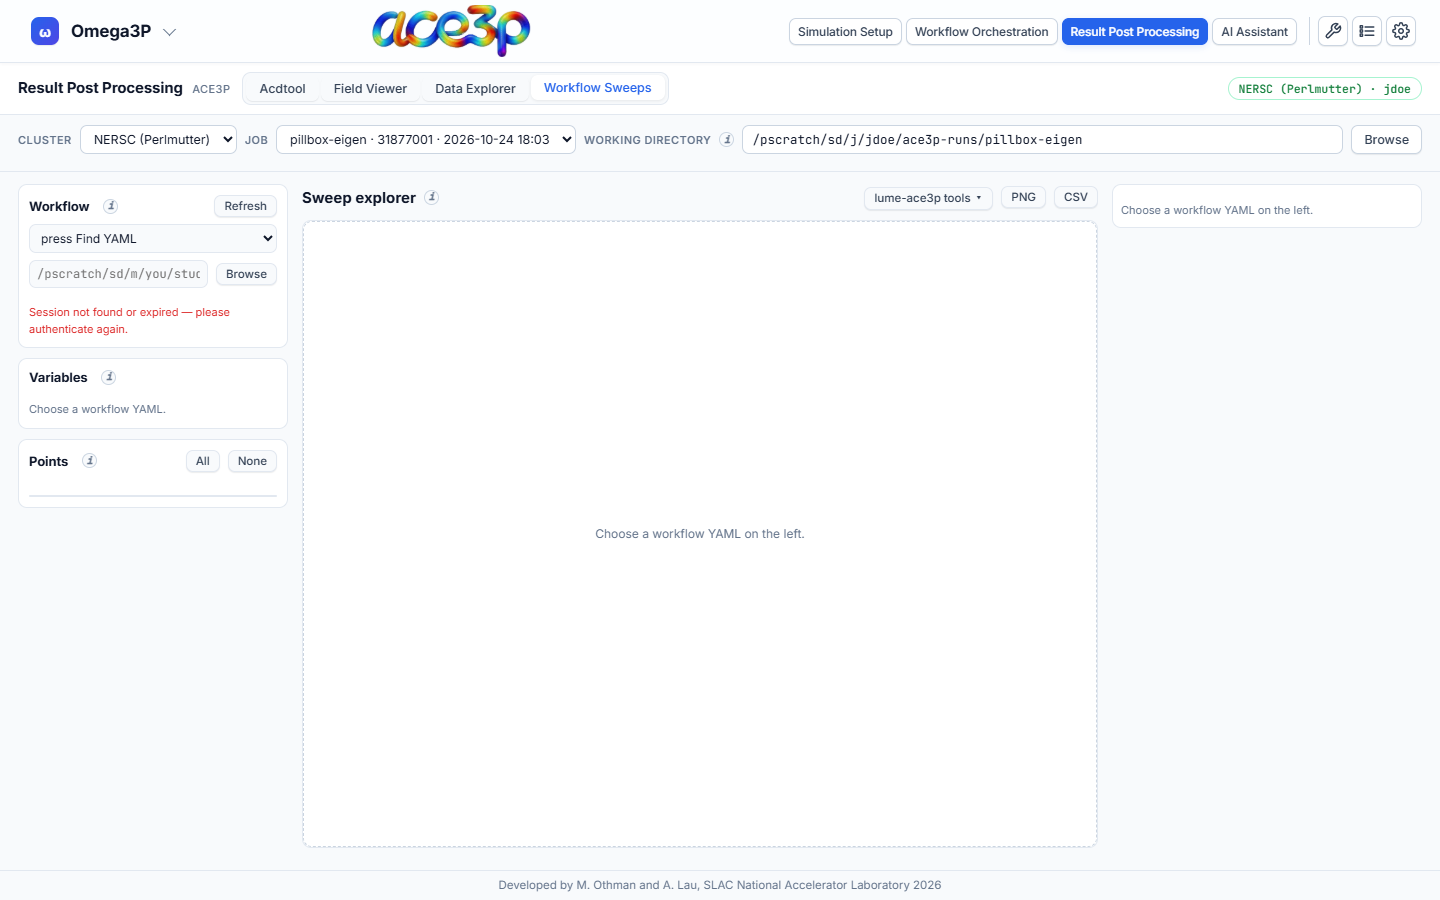
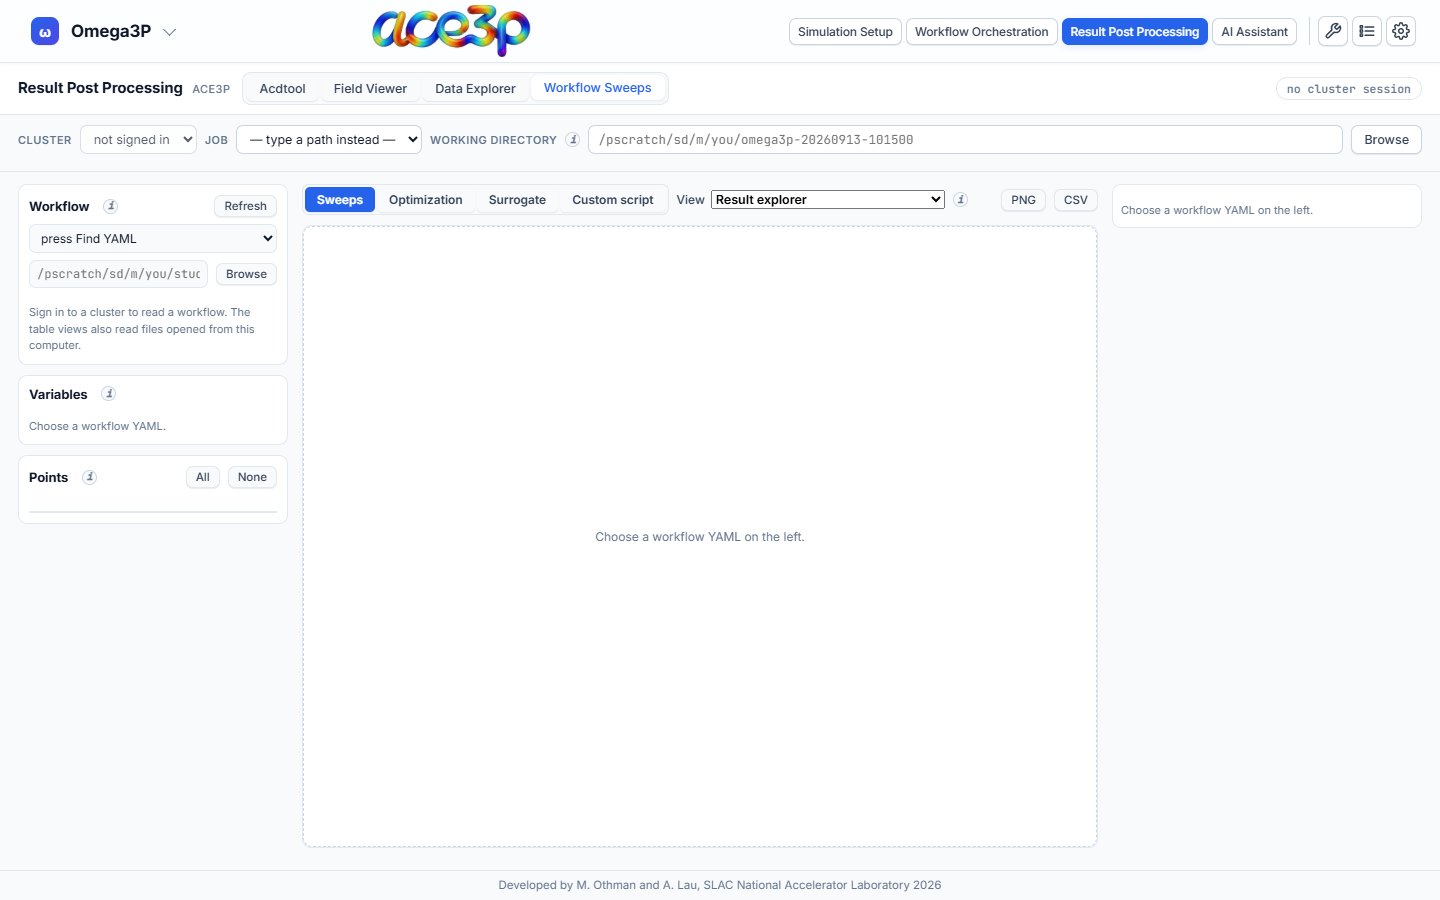
Update to v1.4.17 and rewrite the Workflow Sweeps page
Version references and download links move to v1.4.17. Workflow Sweeps
now documents the Sweeps, Optimization, Surrogate and Custom script
tabs with new screenshots from a real optimizer table.

diff --git a/docs/post-processing/workflow-sweeps.md b/docs/post-processing/workflow-sweeps.md
@@ -1,79 +1,237 @@
 # Workflow Sweeps
 
-**Workflow Sweeps** plots one result across every evaluation of a LUME-ACE3P
-study submitted from [Workflow Orchestration](../workflow/index.md).
+**Workflow Sweeps** plots the results of a LUME-ACE3P study submitted from
+[Workflow Orchestration](../workflow/index.md): a parameter sweep, an
+optimization or a surrogate-model study. It reads every evaluation folder of
+the study, or the study's result tables, and plots them in the browser.
 
 ![The Workflow Sweeps tab](../images/35-workflow-sweeps.png)
 
+The tab has three columns:
+
+- **Left:** the study: **Workflow** (its YAML), **Variables** and **Points**.
+- **Middle:** the plot, with four study-type tabs above it — **Sweeps**,
+  **Optimization**, **Surrogate**, **Custom script** — a **View** menu, the
+  **ⓘ** description of the current view, and **PNG** and **CSV** export.
+- **Right:** the controls of the current view, then the plot styling.
+
 ## Load a study
 
-1. Set the working directory in the source bar to the study's run directory.
-2. In **Workflow**, pick the study's YAML file from the list, or type its
+1. In the source bar, set **Working directory** to the study's run directory.
+2. In **Workflow**, pick the study's YAML from the list. The list holds the
+   YAML files found under the working directory. You can also type the YAML's
    absolute path and press ++enter++, or press **Browse**. When the working
-   directory holds exactly one YAML, it is loaded automatically.
-3. **Variables** lists every input of the study. Swept inputs are marked; for
-   an optimization the bounds are shown.
-4. **Points** lists one row per evaluation folder with its input values. Untick
-   a point to leave it out of the plots. **All** and **None** select every
-   point or none.
+   directory holds exactly one YAML, it is read automatically.
+3. The study opens on the tab that matches its run mode: **Sweeps** for a
+   parameter sweep, **Optimization** for an optimization, **Surrogate** for a
+   GP surrogate study. You can switch tabs at any time.
 
-The input values of each point are read from that point's own journal and
-input file. A point whose files disagree with the value LUME-ACE3P recorded is
-marked **≠**.
+**Variables** lists every input of the YAML. Swept inputs are marked on the
+left edge; for an optimization, each variable's bounds are shown.
 
-**Refresh** lists the directory again and re-reads the study, for example
-while it is still running.
+**Points** lists one row per evaluation folder with its input values.
 
-## Sweep explorer
+- Untick a point to leave it out of every plot. **All** and **None** select
+  every point or none.
+- The values come from each point's own Cubit journal and solver input file,
+  not only from what LUME-ACE3P recorded. A point whose files disagree with the
+  recorded value is marked **≠**.
 
-1. **Result file:** choose a file by its path inside a point folder, for
-   example `s3p_results/Reflection.out` or `omega3p_results/omega3p.out`.
-2. Press **Load**. The file is read from every selected point.
-3. Choose the **X** and **Y** columns, or a scalar.
-4. Choose the plot type:
+**Refresh** lists the YAML files again and re-reads the study. Use it while a
+study is still running to pick up new points.
 
-| Plot type | Shows |
+!!! tip "Tables without a study"
+    The Optimization and Surrogate views, and `table()` in Custom script, also
+    work on tables opened from your computer, with no cluster session: press
+    **Open from this computer…** in the view's **Inputs** group and choose, for
+    example, a downloaded `sim_output.txt`.
+
+## Sweeps
+
+For parameter sweeps. Pick the view in the **View** menu.
+
+| View | What it shows |
 |---|---|
-| Curves | One curve per point, on top of each other. Colour by a parameter (with a colour bar) or by point. A slider highlights one point. |
-| Colour map vs one parameter | The X column against one swept parameter, coloured by Y. |
-| Colour map over two parameters | Two swept parameters, coloured by a number taken from each curve. |
-| Quantity vs parameter | A number from each curve against one parameter, one line per value of a second parameter. |
+| **Result explorer** | One result file read from every evaluation folder, plotted across the study. |
+| **Curves with parameter sliders** | Every point's curve drawn faintly, the selected point in bold, with a slider per swept parameter. |
+| **Parameter map with optimizer path** | One quantity as a colour map over two swept parameters, with an optimizer's evaluations drawn on top. |
 
-For the last two types, each curve is reduced to one number: the value at a
-given X, maximum, minimum, mean, first, last, X at maximum, or X at minimum.
+### Result explorer
 
-Every other swept parameter gets a slider that holds it at one value. Optional
-3-D surface, log Y, log colour and six colour maps are available. Export the
-plot with **PNG** and the plotted data with **CSV**.
+1. **Result file:** choose a file by its path inside an evaluation folder, for
+   example `omega3p_results/omega3p.out`, `s3p_results/SParameter.out` or a
+   T3P monitor file. Only files that hold data to plot are listed.
+2. Press **Load**. The file is read from every point in use.
+3. Under **Data**, choose the **X** and **Y** columns, or a value the solver
+   printed (for example a T3P kick factor).
+4. Under **Plot**, choose the **Type**:
+
+| Type | Shows |
+|---|---|
+| Curves on top of each other | One curve per point. **Colour by** a parameter (with a colour bar), or leave it empty for one distinct colour per point. |
+| Quantity vs evaluation | One number per point against the evaluation number. |
+| Quantity vs parameter | One number per point against one parameter, one line per value of a second parameter. |
+| Map: parameter vs parameter | One number per point as a colour map over two parameters. |
+| Colour map: X column vs parameter | The X column against one parameter, coloured by Y. |
+
+For the types that need one number per point, **Reduce Y to** picks it: the
+value at a given X, maximum, minimum, mean, first value, last value, X at
+maximum, or X at minimum.
+
+In a sweep, every swept parameter not on an axis gets a slider that holds it at
+one value. **Highlight → Point** draws one point's curve in bold. Options:
+**Colormap** (jet first), **log colour**, **3-D surface** for the maps, and
+**best so far** for Quantity vs evaluation.
+
+In an optimization nothing is held: every evaluation is shown, and the maps and
+Quantity vs parameter draw scattered points.
+
+### Curves with parameter sliders and the other curve views
+
+Under **Data → From**, choose where the curves come from:
+
+- **a result file in every point** — the same file as in the Result explorer,
+  then the **X column**;
+- **one long-format table** — a table with the parameters, an **Index column**
+  (frequency, mode, time) and the quantities, such as a sweep's output table.
+
+These views work with any curve: an S-parameter spectrum, the mode frequencies
+of `omega3p.out`, a T3P monitor signal. They do not depend on a particular
+column name.
+
+**Parameter map with optimizer path** reads a **Sweep table** and, optionally,
+an **Optimization table**. It draws one quantity at one value of the index
+column (an S-parameter at one frequency, a mode's frequency) over two swept
+parameters, with the optimizer's evaluations drawn from dark to light in the
+order they were run. It can be animated or shown as a 3-D surface.
+
+## Optimization
+
+For Xopt optimizations. **Optimization history** opens first.
+
+![Optimization history](../images/35a-opt-history.png)
+
+| View | What it shows |
+|---|---|
+| **Optimization history** | The optimizer's own table, one row per evaluation. |
+| **Result explorer** | A result file from every evaluation folder (see above). |
+| **Curve of one evaluation** | One evaluation's curve, with sliders for the evaluation and the quantity. Target X positions are marked when the table names them. |
+| **Curves of several evaluations** | Several evaluations' curves in distinct colours: all, the last N, every Nth, or a list. |
+
+### Optimization history step by step
+
+1. Under **Inputs → Optimizer table**, choose the table. It is found next to
+   the YAML (`sim_output.txt` unless the YAML names another file), or opened
+   with **Open from this computer…**.
+2. Under **Plot → View**, choose:
+    - **Column vs evaluation** — a column against the evaluation number, with
+      the best value so far as a red line and the best evaluation as a star.
+      Columns spanning more than three decades get a log axis.
+    - **Column vs column** — two columns against each other, coloured by a
+      third.
+    - **Variables vs evaluation** — every variable's path, scaled to its bounds
+      when **scale each to its bounds (0 to 1)** is ticked.
+3. Under **Best evaluation**, choose the column the best evaluation is judged
+   by (**By**) and whether the best is the **lowest** or **highest**. Tick
+   **leave out failed evaluations** to ignore rows Xopt marked as errors. The
+   best evaluation's full row is listed below.
+
+The column names are labelled from the YAML: variables, objectives (with their
+direction), constraints and outputs. Without the YAML, a `merit`, `objective`
+or `cost` column is taken as the objective and the columns to its left as the
+variables; the objective is then marked `objective?`.
+
+![Variables scaled to their bounds](../images/35b-opt-variables.png)
+
+![Column vs column](../images/35c-opt-column-vs-column.png)
+
+## Surrogate
+
+**Gaussian-process surrogate** fits a Gaussian-process model to a table of
+evaluations — an optimizer's `sim_output.txt`, a sweep's output table, a GP
+study's training data — and draws it. The model is fitted in the page.
+
+![A 1-D slice of the surrogate](../images/35d-gp-slice.png)
+
+1. **Inputs → Training table:** choose the table.
+2. **Model → Output:** the column to model. Tick **model log10 of the output**
+   for a quantity that spans several decades. The line below gives the number
+   of evaluations and the leave-one-out R².
+3. **Inputs:** tick the columns the model uses as inputs. The optimizer's
+   variables are ticked by default.
+4. **View → Show:**
+    - **1-D slice** — the prediction along one **Input** with its ±2σ band.
+      Tick **show the evaluations** to draw the data points.
+    - **2-D map** — the prediction, or its uncertainty (σ), over two inputs.
+    - **Predicted vs actual** — each evaluation predicted by a model fitted
+      without it. Points near the diagonal mean the model can be trusted.
+5. **Hold the other inputs at:** **Start from** the best evaluation or the
+   median, then adjust each held input with its slider.
+
+![2-D map of the surrogate](../images/35e-gp-map.png)
+
+![Leave-one-out predictions](../images/35f-gp-loo.png)
+
+!!! note "How far to trust the model"
+    Read the leave-one-out R² before using a slice or a map. A value near 1
+    means the model predicts evaluations it has not seen. A low value, such as
+    0.32 for the 15 evaluations above, means the model needs more data and its
+    slices show trends only.
+
+## Custom script
+
+**Custom script** runs a short script that you write below the plot. Use it for
+any plot the other views do not make.
+
+![A custom script plotting two columns of sim_output.txt](../images/35g-custom-script.png)
+
+The script is JavaScript and runs in the page. It has:
+
+| Name | What it gives |
+|---|---|
+| `points` | The evaluation folders in use: `{name, index, values}` |
+| `await read(file)` | `file` read from every point: a list of `{point, table, col(name)}` |
+| `await table(name)` | A table beside the YAML (such as `sim_output.txt`) or opened from this computer, with `columns` and `col(name)` |
+| `plot(traces, layout)` | Draws with Plotly |
+| `log(...)` | Prints below the editor |
+
+The example above:
+
+```javascript
+// Q of the pi mode against its frequency, from the optimizer's table.
+const t = await table("sim_output.txt");
+log("columns:", t.columns.join(", "));
+plot([{
+  x: t.col("f_pi").map((f) => f / 1e9),
+  y: t.col("Q_pi"),
+  mode: "markers", name: "evaluations",
+}], { xaxis: { title: "f_pi (GHz)" }, yaxis: { title: "Q_pi" } });
+```
+
+| Button | Effect |
+|---|---|
+| **Run** (++ctrl+enter++) | Runs the script. |
+| **Template** | Replaces the script with the starting template, which plots one value of a result file from every point. |
+| **Python version** | Downloads a matplotlib script that makes the same kind of plot from the evaluation folders on the cluster. |
+| **Open a .py plotting script…** | Opens a LUME-ACE3P plotting script from your computer and switches to the matching view. |
+
+The script is saved in your browser and is there when you come back.
 
 ## Plot styling
 
-The right-hand column sets the **Title**, **X label**, **Y label**, **Colour
-bar** label, **Log X**, **Log Y** and **Legend**. **Series** lists every curve
-with visibility, colour, symbol, line style and legend name. **Reset style**
-returns to the automatic labels and colours.
+The bottom of the right column styles whatever the current view draws:
+**Title**, **X label**, **Y label**, **Colour bar** label, **Log X**, **Log Y**,
+**Legend**, and **Series** — visibility, colour, symbol, line style and legend
+name of each curve. Labels you type are kept until the view changes its axes.
+**Reset style** returns to the automatic labels and colours.
 
-## lume-ace3p tools
-
-The **lume-ace3p tools ▾** menu opens in-browser versions of the plotting
-scripts that ship with LUME-ACE3P:
-
-| Tool | Original script |
-|---|---|
-| S3P parameter-sweep viewer | `s3p_sweep_plot.py` |
-| S3P optimization viewer | `s3p_xopt_plot.py` |
-| Optimization iterations (static) | `xopt_plot_still.py` |
-| Parameter-space exploration | `xopt_param_sweep_plot.py` |
-
-Each tool reads the same text tables as the original script. **Load scripts
-from this computer…** in the same menu opens your copies of these scripts and
-picks the matching tool. **Script** shows the loaded script's source. The menu
-also returns to the Sweep explorer.
+**PNG** saves the plot. **CSV** saves the data that is plotted.
 
 ## Limits
 
-- At most 2000 files and 96 MB are read per load; the tab asks before reading
+- At most 2000 files and 96 MB are read per load. The tab asks before reading
   more than about 64 MB.
 - A table longer than 20 000 rows is thinned to evenly spaced rows.
-- Large particle dumps (runs of thousands of numbered files) are listed as one
-  series and are not offered for loading.
+- Large runs of numbered files, such as Track3P particle dumps, are listed as
+  one series and are not offered for loading.
+- The surrogate model uses at most 250 evaluations.

diff --git a/docs/getting-started/install.md b/docs/getting-started/install.md
@@ -5,20 +5,20 @@ every dependency and the interface. You do not install anything else.
 
 ## Download
 
-The current release is **v1.4.15**.
+The current release is **v1.4.17**.
 
-[Windows (.exe)](https://github.com/mothmanslac/ace3p-gui-docs/releases/download/v1.4.15/ACE3P-GUI-v1.4.15-windows-x86_64.exe){ .md-button .md-button--primary }
-[Linux (.tar.gz)](https://github.com/mothmanslac/ace3p-gui-docs/releases/download/v1.4.15/ACE3P-GUI-v1.4.15-linux-x86_64.tar.gz){ .md-button }
+[Windows (.exe)](https://github.com/mothmanslac/ace3p-gui-docs/releases/download/v1.4.17/ACE3P-GUI-v1.4.17-windows-x86_64.exe){ .md-button .md-button--primary }
+[Linux (.tar.gz)](https://github.com/mothmanslac/ace3p-gui-docs/releases/download/v1.4.17/ACE3P-GUI-v1.4.17-linux-x86_64.tar.gz){ .md-button }
 
 Release notes, checksums and earlier versions are on the
 [releases page](https://github.com/mothmanslac/ace3p-gui-docs/releases).
 
 | You are on | Download | Run |
 |---|---|---|
-| Windows | `ACE3P-GUI-v1.4.15-windows-x86_64.exe` | Double-click it |
-| Perlmutter (NERSC) | `ACE3P-GUI-v1.4.15-linux-x86_64.tar.gz` | Unpack, run `./ACE3P-GUI` |
-| S3DF (SLAC) | `ACE3P-GUI-v1.4.15-linux-x86_64.tar.gz` | Unpack, run `./ACE3P-GUI` |
-| Linux desktop | `ACE3P-GUI-v1.4.15-linux-x86_64.tar.gz` | Unpack, run `./ACE3P-GUI` |
+| Windows | `ACE3P-GUI-v1.4.17-windows-x86_64.exe` | Double-click it |
+| Perlmutter (NERSC) | `ACE3P-GUI-v1.4.17-linux-x86_64.tar.gz` | Unpack, run `./ACE3P-GUI` |
+| S3DF (SLAC) | `ACE3P-GUI-v1.4.17-linux-x86_64.tar.gz` | Unpack, run `./ACE3P-GUI` |
+| Linux desktop | `ACE3P-GUI-v1.4.17-linux-x86_64.tar.gz` | Unpack, run `./ACE3P-GUI` |
 | macOS | No prebuilt binary | [Run from source](#run-from-source) |
 
 The Linux build needs glibc 2.38 or newer. Check with `ldd --version`. An older
@@ -28,7 +28,7 @@ On Perlmutter you can skip the download and run the shared install from a
 ThinLinc terminal:
 
 ```bash
-/global/cfs/cdirs/ace3p/gui/ACE3P-GUI-v1.4.15-linux-x86_64/ACE3P-GUI
+/global/cfs/cdirs/ace3p/gui/ACE3P-GUI-v1.4.17-linux-x86_64/ACE3P-GUI
 ```
 
 The application starts a small local server and opens the interface in your
@@ -38,7 +38,7 @@ the application: close it to stop the app.
 ## Windows
 
 1. Download
-   [ACE3P-GUI-v1.4.15-windows-x86_64.exe](https://github.com/mothmanslac/ace3p-gui-docs/releases/download/v1.4.15/ACE3P-GUI-v1.4.15-windows-x86_64.exe).
+   [ACE3P-GUI-v1.4.17-windows-x86_64.exe](https://github.com/mothmanslac/ace3p-gui-docs/releases/download/v1.4.17/ACE3P-GUI-v1.4.17-windows-x86_64.exe).
 2. Double-click it.
 3. If Windows SmartScreen shows **Windows protected your PC**, click
    **More info**, then **Run anyway**. The warning appears because the file is
@@ -55,15 +55,15 @@ Run the app on the cluster from a graphical desktop: **ThinLinc** on Perlmutter,
 **NoMachine** on S3DF. Open a terminal on that desktop and run:
 
 ```bash
-tar xzf ACE3P-GUI-v1.4.15-linux-x86_64.tar.gz
-cd ACE3P-GUI-v1.4.15-linux-x86_64
+tar xzf ACE3P-GUI-v1.4.17-linux-x86_64.tar.gz
+cd ACE3P-GUI-v1.4.17-linux-x86_64
 ./ACE3P-GUI
 ```
 
 To download straight to the cluster:
 
 ```bash
-wget https://github.com/mothmanslac/ace3p-gui-docs/releases/download/v1.4.15/ACE3P-GUI-v1.4.15-linux-x86_64.tar.gz
+wget https://github.com/mothmanslac/ace3p-gui-docs/releases/download/v1.4.17/ACE3P-GUI-v1.4.17-linux-x86_64.tar.gz
 ```
 
 Firefox opens on the app. You do not sign in: the app detects that it runs on
@@ -100,7 +100,7 @@ Cubit and ParaView do not open this way. Use ThinLinc or NoMachine for them.
 ### Single-file build
 
 Some releases also have `ACE3P-GUI-v<version>-linux-x86_64.bin`, the same app
-as one file. v1.4.15 does not. It unpacks itself under `~/.cache/ACE3P-GUI` on every launch, so it
+as one file. v1.4.17 does not. It unpacks itself under `~/.cache/ACE3P-GUI` on every launch, so it
 starts more slowly than the unpacked folder.
 
 ## Command-line options

diff --git a/docs/post-processing/index.md b/docs/post-processing/index.md
@@ -8,7 +8,7 @@ tabs:
 | [Acdtool](acdtool.md) | Compute RF quantities (R/Q, kick factors, field maps, multipoles, surface fields) with `acdtool postprocess rf`. |
 | [Field Viewer](field-viewer.md) | Draw the fields of `.mod` files, or a mesh, in 3-D. |
 | [Data Explorer](data-explorer.md) | Browse the run directory, read logs, and plot any column-formatted result file. |
-| [Workflow Sweeps](workflow-sweeps.md) | Plot one quantity across all evaluations of a LUME-ACE3P study. |
+| [Workflow Sweeps](workflow-sweeps.md) | Plot the results of a LUME-ACE3P study: parameter sweeps, optimization history, a Gaussian-process surrogate, or your own script. |
 
 ## Source bar
 

diff --git a/docs/index.md b/docs/index.md
@@ -30,7 +30,8 @@ submits the job, tracks it, and reads the results back.
 4. Use the remaining sections as a reference for each part of the app.
 
 !!! note "Screenshots"
-    Screenshots were taken from version 1.4.15 on Windows. The job names, user
+    Screenshots were taken on Windows from version 1.4.15; the Workflow Sweeps
+    screenshots are from 1.4.17. The job names, user
     name `jdoe` and run directories in them are examples. Your version number is
     shown in **Settings → Updates**.
 

diff --git a/docs/reference/settings.md b/docs/reference/settings.md
@@ -36,7 +36,7 @@ more detail.
 
 ## Updates
 
-Shows the running version (**ACE3P GUI v1.4.15**) and what is new in it. Quote
+Shows the running version (**ACE3P GUI v1.4.17**) and what is new in it. Quote
 the version when you report a problem.
 
 To update: close the browser tab and the console window, download the new
